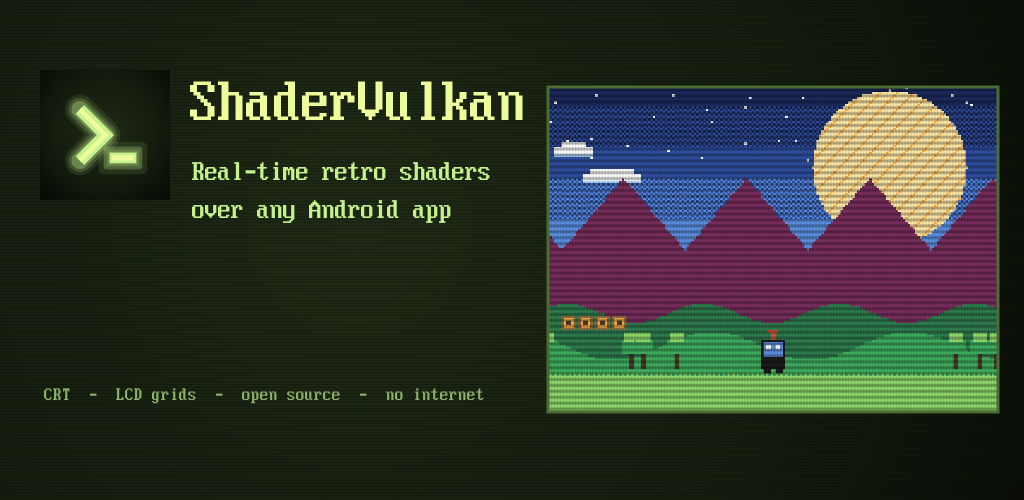
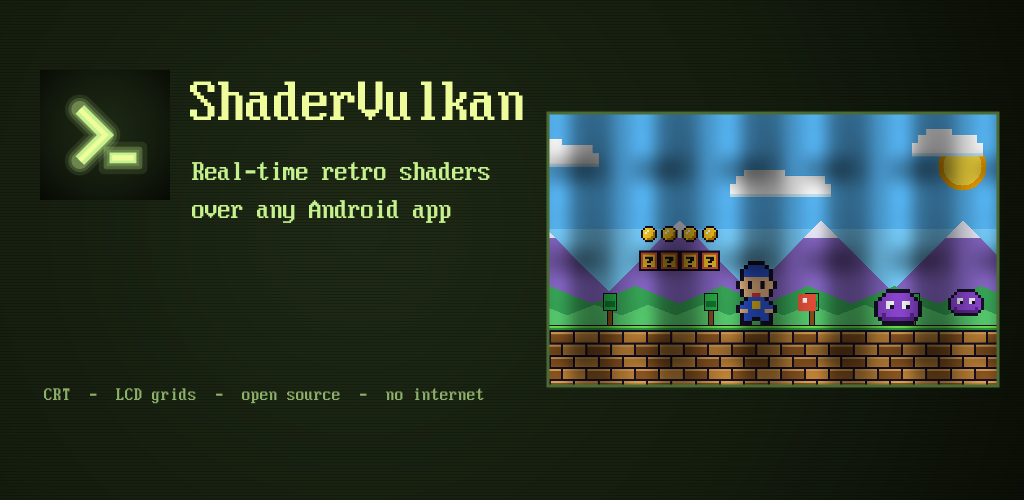
Imágenes de publicación con arte propio de colores planos y el shader Authentic GBC
- Arte original estilo Game Boy Color a la resolución de la rejilla de Glass (270x585 y 585x270, ampliado x4), sin tramados
- Capturas hechas en el emulador con el shader authentic_gbc_single_pass de libretro en modo Glass
- docs/media: hero.gif, shot-crt, shot-glass y shot-ui; docs/play: icono, gráfico de funciones y 8 capturas
- README: textos del hero y de la tabla de capturas

Changed region(s): [[0.5312, 0.15, 1.0, 0.84]]

diff --git a/README.md b/README.md
@@ -20,7 +20,7 @@ It runs the RetroArch **`.slangp`** shader presets you already know, on a Vulkan
 [![9 languages](https://img.shields.io/badge/languages-9-8E6FD8)](#features)
 [![Latest release](https://img.shields.io/github/v/release/Eduzyrtin/ShaderVulkan?color=C6F28E&label=download)](https://github.com/Eduzyrtin/ShaderVulkan/releases/latest)
 
-<img src="docs/media/hero.gif" alt="Before and after: an original pixel-art scene raw and with a CRT shader, then the floating menu and the preset list" width="420">
+<img src="docs/media/hero.gif" alt="Before and after: an original pixel-art game scene raw and with the Authentic GBC LCD shader, then Glass mode, the floating menu and the preset list" width="420">
 
 **[Download the APK](https://github.com/Eduzyrtin/ShaderVulkan/releases/latest)** · [Getting started](#getting-started) · [How it works](#how-it-works-two-very-different-modes) · [FAQ](#faq)
 
@@ -40,7 +40,7 @@ And it has **no internet access at all**. It doesn't even request Android's inte
 
 <table>
   <tr>
-    <td align="center"><img src="docs/media/shot-crt.gif" width="200"><br><sub>Before and after: fine CRT scanlines</sub></td>
+    <td align="center"><img src="docs/media/shot-crt.gif" width="200"><br><sub>Before and after: the Authentic GBC shader</sub></td>
     <td align="center"><img src="docs/media/shot-glass.gif" width="200"><br><sub>Glass mode over any app</sub></td>
     <td align="center"><img src="docs/media/shot-ui.gif" width="200"><br><sub>The phosphor-terminal UI</sub></td>
   </tr>
